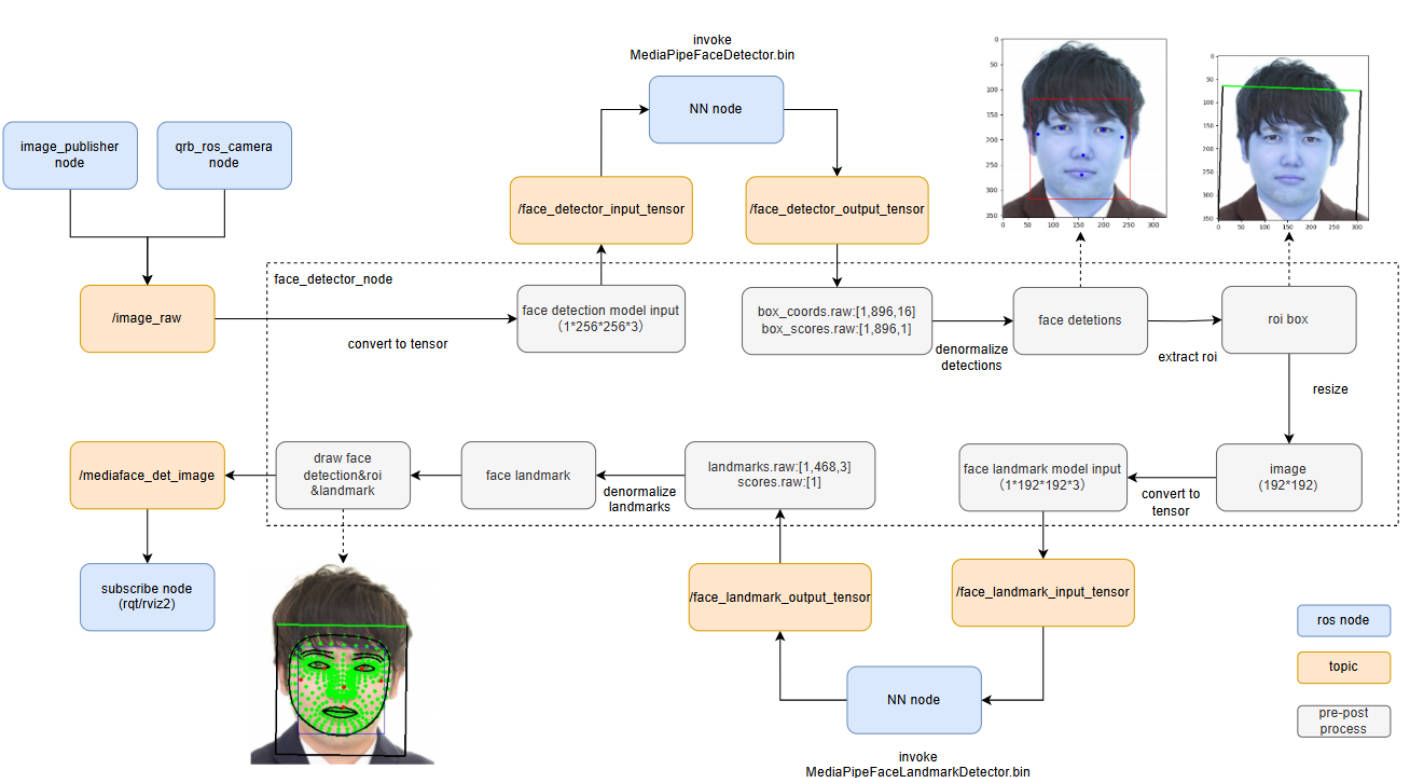
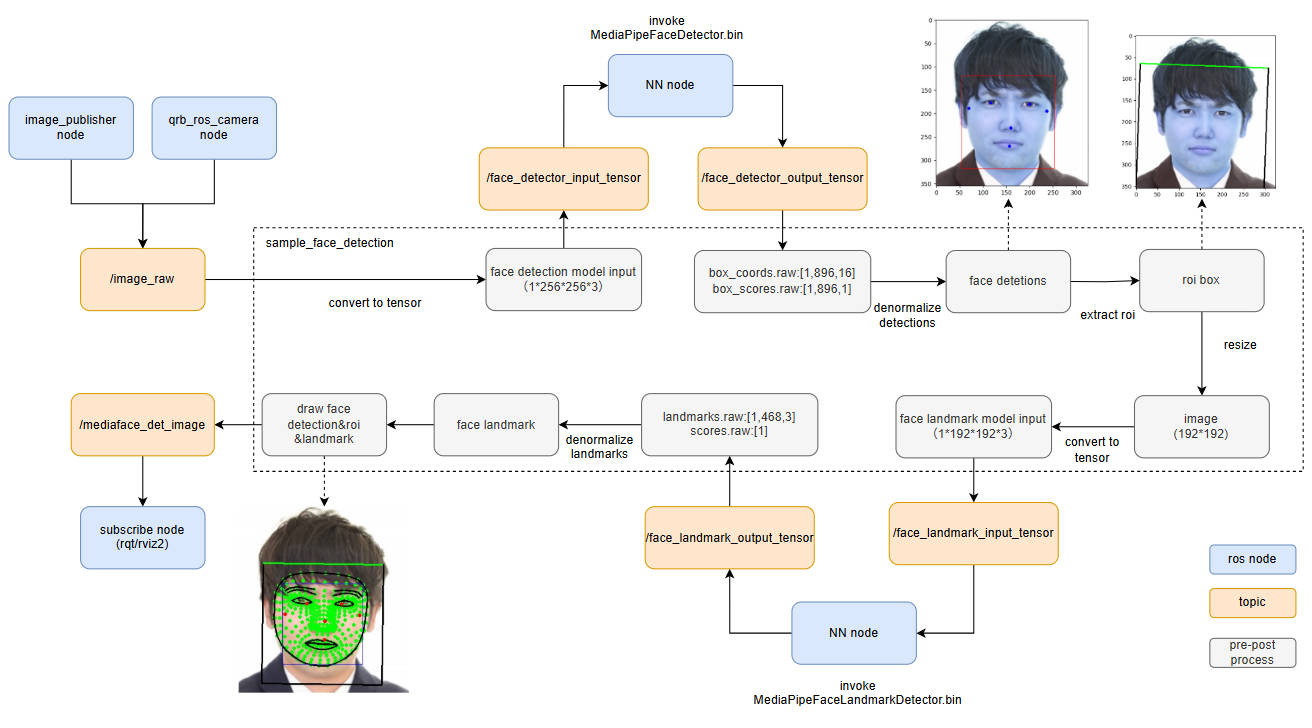
fix: update readme and package xml

Changed region(s): [[0.0312, 0.0, 1.0, 1.0], [0.0, 0.1209, 0.2188, 0.3022], [0.9062, 0.7253, 1.0, 0.967]]

diff --git a/ai_vision/sample_face_detection/README.md b/ai_vision/sample_face_detection/README.md
@@ -1,14 +1,6 @@
-<!--AI Samples <sample_face_detection>-->
-
-# AI Samples Mediapipe Face Detection
-<div >
-  <h1>AI Sample Face Detection</h1>
-  <p align="center">
-</div>
+# AI Sample Face Detection
 
 ![](./resource/face_detection_cam.gif)
-
----
 
 ## 👋 Overview
 
@@ -16,26 +8,24 @@ The ` sample_face_detection` is a Python-based face recognition ROS node that us
 The models are sourced from Qualcomm AI-hub.Can detect faces and locate facial features from image
 It captures the `face_image.jpg` as input and publishes the result with the `/mediaface_det_image` and `output_image.jpg` .
 
-For more information, please refer to [qrb_ros_samples/ai_vision/sample_face_detection at jazzy · QUIC-QRB-ROS/qrb_ros_samples](https://github.qualcomm.com/QUIC-QRB-ROS/qrb_ros_samples/tree/jazzy/ai_vision/sample_face_detection) .
-
+For model information, please refer to [MediaPipe-Face-Detection - Qualcomm AI Hub](https://aihub.qualcomm.com/iot/models/mediapipe_face?searchTerm=Media)
 
 ## Pipeline Flow For Face Detection
 
-![](./resource/sample_face_detection_pipeline.png)
+![](./resource/sample_face_detection_pipeline.jpg)
 
 | ROS Node         | Description                                                  |
 | ---------------- | ------------------------------------------------------------ |
-| `qrb_ros_face_detector` | `qrb_ros_face_detector is a python-based ros jazzy packages realize classify images. This ROS node subscribes image topic, and publishs classify result topic after pre-post process. ` |
-| `qrb_ros_nn_inference` | qrb_ros_nn_inference is a ROS2 package for performing neural network model, providing AI-based perception for robotics applications. source link: [qualcomm-qrb-ros/qrb_ros_nn_inference](https://github.com/qualcomm-qrb-ros/qrb_ros_nn_inference) |
-| `qrb_ros_camera` | qrb_ros_camera is a ROS package to publish the images from Qualcomm CSI and GMSL cameras. source link: [qualcomm-qrb-ros/qrb_ros_camera](https://github.com/qualcomm-qrb-ros/qrb_ros_camera) |
-| `image_publisher_node` | image_publisher is  a ros jazzy packages, can publish image ros topic with local path. source link: [ros-perception/image_pipeline: An image processing pipeline for ROS.](https://github.com/ros-perception/image_pipeline) |
+| qrb_ros_face_detector | qrb_ros_face_detector is a python-based ros jazzy packages realize face images. This ROS node subscribes image topic, and publishs face image result topic after pre-post process. ` |
+| [qrb_ros_nn_inference](https://github.com/qualcomm-qrb-ros/qrb_ros_nn_inference) | qrb_ros_nn_inference is a ROS2 package for performing neural network model, providing AI-based perception for robotics applications. |
+| [qrb ros camera](https://github.com/qualcomm-qrb-ros/qrb_ros_camera) | Qualcomm ROS 2 package that captures images with parameters and publishes them to ROS topics. |
+| [image_publisher_node](https://github.com/ros-perception/image_pipeline) | image_publisher is  a ros jazzy packages, can publish image ros topic with local path. |
 
 
 ## 🔎 Table of contents
 
-  * [Used ROS Topics](#-apis)
+  * [Used ROS Topics](#-used-ros-topics)
   * [Supported targets](#-supported-targets)
-  * [Installation](#-installation)
   * [Usage](#-usage)
   * [Build from source](#-build-from-source)
   * [Contributing](#-contributing)
@@ -48,11 +38,11 @@ For more information, please refer to [qrb_ros_samples/ai_vision/sample_face_det
 | ROS Topic | Type                         | Published By     |
 | --------- | ---------------------------- | ---------------- |
 | `/mediaface_det_image`  | `< sensor_msgs.msg.Image > ` | `qrb_ros_face_detector` |
-| `image_raw`                   | `<sensor_msgs.msg.Image> `  | `image_publisher_node, camera_node` |
-| `face_detector_input_tensor ` | `<qrb_ros_tensor_list_msgs.msg.TensorList> ` | `qrb_ros_face_detector`     |
-| `face_detector_output_tensor ` | `<qrb_ros_tensor_list_msgs.msg.TensorList> ` | `qrb_ros_nn_inference`     |
-| `face_landmark_input_tensor ` | `<qrb_ros_tensor_list_msgs.msg.TensorList> ` | `qrb_ros_face_detector`     |
-| `face_landmark_output_tensor ` | `<qrb_ros_tensor_list_msgs.msg.TensorList> ` | `qrb_ros_nn_inference`     |
+| `/image_raw`                   | `<sensor_msgs.msg.Image> `  | `image_publisher_node, camera_node` |
+| `/face_detector_input_tensor ` | `<qrb_ros_tensor_list_msgs.msg.TensorList> ` | `qrb_ros_face_detector`     |
+| `/face_detector_output_tensor ` | `<qrb_ros_tensor_list_msgs.msg.TensorList> ` | `qrb_ros_nn_inference`     |
+| `/face_landmark_input_tensor ` | `<qrb_ros_tensor_list_msgs.msg.TensorList> ` | `qrb_ros_face_detector`     |
+| `/face_landmark_output_tensor ` | `<qrb_ros_tensor_list_msgs.msg.TensorList> ` | `qrb_ros_nn_inference`     |
 
 ## 🎯 Supported targets
 
@@ -71,33 +61,17 @@ For more information, please refer to [qrb_ros_samples/ai_vision/sample_face_det
   </tr>
 </table>
 
-## ✨ Installation
-> [!IMPORTANT]
-> **PREREQUISITES**: The following steps need to be run on **Qualcomm Ubuntu** and **ROS Jazzy**.<br>
-> Reference [Install Ubuntu on Qualcomm IoT Platforms](https://ubuntu.com/download/qualcomm-iot) and [Install ROS Jazzy](https://docs.ros.org/en/jazzy/index.html) to setup environment. <br>
-> For Qualcomm Linux, please check out the [Qualcomm Intelligent Robotics Product SDK](https://docs.qualcomm.com/bundle/publicresource/topics/80-70018-265/introduction_1.html?vproduct=1601111740013072&version=1.4&facet=Qualcomm%20Intelligent%20Robotics%20Product%20(QIRP)%20SDK) documents.
-
-Add Qualcomm IOT PPA for Ubuntu:
-
-```bash
-sudo add-apt-repository ppa:ubuntu-qcom-iot/qcom-noble-ppa
-sudo add-apt-repository ppa:ubuntu-qcom-iot/qirp
-sudo apt update
-```
-
-Install Debian package:
-
-```bash
-sudo apt install ros-jazzy-sample-face-detection
-```
-
 ## 🚀 Usage
 
 <details>
   <summary>Usage details</summary>
 
 ```bash
-source /opt/ros/jazzy/setup.bash
+# Set up the runtime environment
+export HOME=/opt
+source /usr/share/qirp-setup.sh
+export ROS_DOMAIN_ID=xx # Value range of ROS_DOMAIN_ID: [0, 232]
+
 # You can also replace this with a custom image file
 ros2 launch sample_face_detection launch_with_image_publisher.py image_path:=/opt/resource/face_image.jpg model_path:=/opt/model/
 or # You can launch with qrb ros camera
@@ -178,11 +152,7 @@ c:38:dummy call to rpcmem_init, rpcmem APIs will be used from libxdsprpc
 
 ```
 
-Then you can check ROS topics with the name`/mediaface_det_image` in other shell terminal
-
-```bash
-ros2 topic echo /mediaface_det_image
-```
+Then you can check ROS topics with the name`/mediaface_det_image` in rviz
 
 </details>
 
@@ -191,27 +161,10 @@ ros2 topic echo /mediaface_det_image
 <details>
   <summary>Build from source details</summary>
 
-Install dependencies
-
-```
-sudo apt install ros-jazzy-rclpy \
-  ros-jazzy-sensor-msgs \
-  ros-jazzy-std-msgs \
-  ros-jazzy-cv-bridge \
-  ros-jazzy-ament-index-python \
-  ros-jazzy-qrb-ros-tensor-list-msgs \
-  python3-opencv \
-  python3-numpy \
-  ros-jazzy-image-publisher \
-  ros-jazzy-qrb-ros-nn-inference \
-  ros-jazzy-qrb-ros-camera \
-  ros-jazzy-image-publisher
-```
-
 Download the source code and build with colcon
 
 ```bash
-source /opt/ros/jazzy/setup.bash
+source /usr/share/qirp-setup.sh
 git clone https://github.com/qualcomm-qrb-ros/qrb_ros_samples.git
 cd ai_vision/sample_face_detection
 colcon build
@@ -248,8 +201,8 @@ Thanks to all our contributors who have helped make this project better!
 ## ❔ FAQs
 
 <details>
-<summary>Why only output text result?</summary><br>
-Post-processed text output is useful for integration into other ROS-based demo samples.
+<summary>Can detect muliplt face?</summary><br>
+No,it can support one face detection only.
 </details>
 
 
